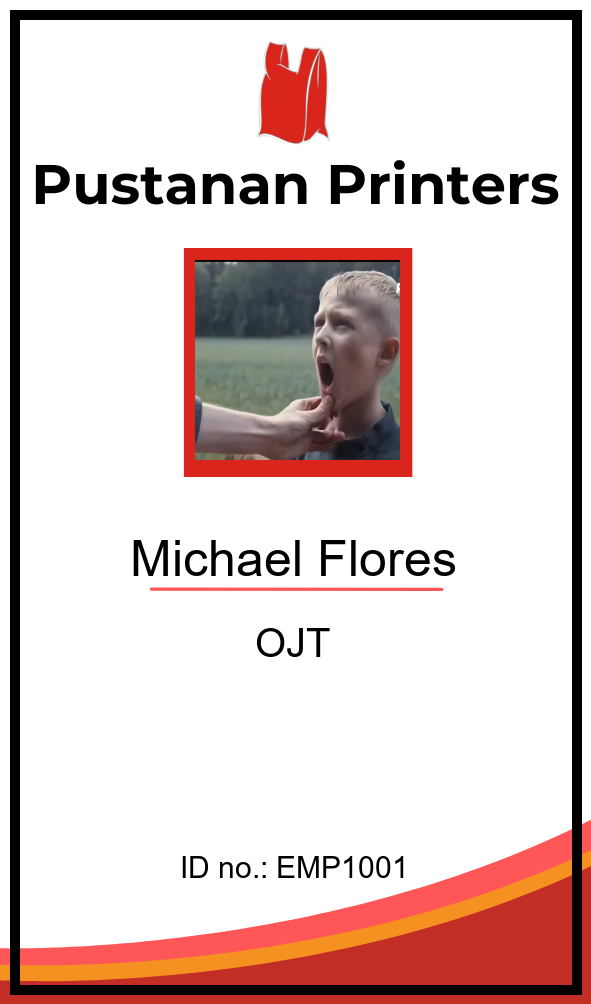
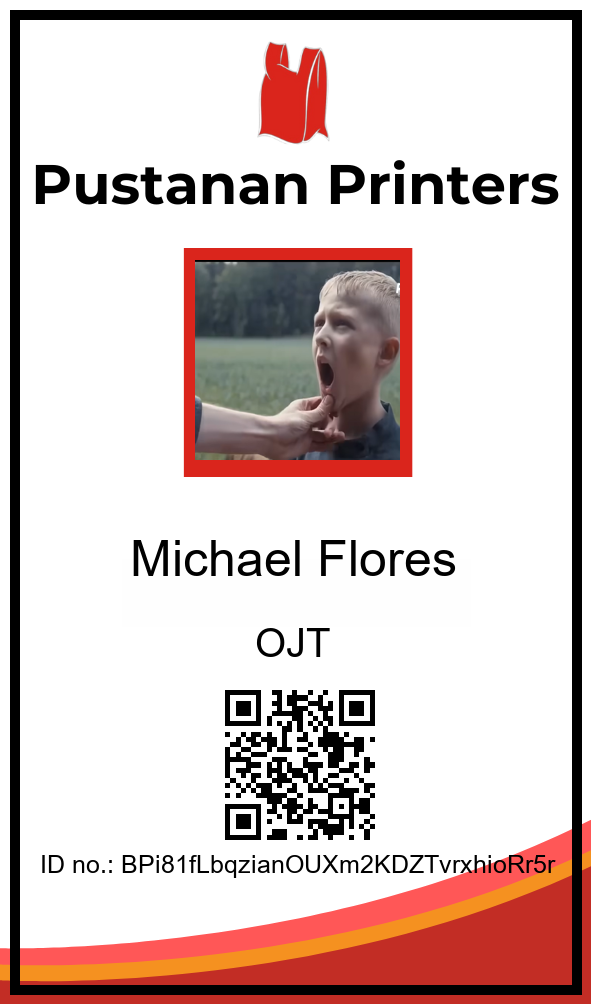
.

Changed region(s): [[0.1827, 0.6793, 0.9442, 0.8954], [0.1218, 0.8337, 0.1523, 0.8645], [0.0609, 0.8337, 0.0914, 0.8645]]

diff --git a/Server/generateEmployeeID.py b/Server/generateEmployeeID.py
@@ -22,7 +22,7 @@ def generate_id_card(employee_data):
 
     # card = Image.new("RGB", (card_width, card_height), background_color)
     # draw = ImageDraw.Draw(card)
-    type_of_employee = "Regular Employee" if isRegular else "OJT" if isOJT else "Production Employee" if isProductionEmployee else "Unknown"
+    type_of_employee = "Regular" if isRegular else "OJT" if isOJT else "Production" if isProductionEmployee else "Unknown"
 
     background_path = "server/IDassets/"
 
@@ -63,9 +63,38 @@ def generate_id_card(employee_data):
         except Exception as e:
             print(f"Error loading photo: {e}")
 
-    draw.text((130, 530), f"{name}", fill="black", font=name_font)
-    draw.text((255, 620), f"{type_of_employee}", fill="black", font=role_font)
-    draw.text((180, 850), f"ID no.: {ref_id}", fill="black", font=ref_id_font)
+    # draw.text((130, 530), f"{name}", fill="black", font=name_font)
+    if len(name) > 30:
+        name_font = ImageFont.truetype(font_path, size=30)
+        # name = textwrap.fill(name, width=30)
+        x_text = 80
+    else:
+        x_text = 130
+
+    name_lines = textwrap.wrap(name, width=35)
+    y_text = 530
+    for line in name_lines:
+        draw.text((x_text, y_text), line, fill="black", font=name_font)
+        y_text += name_font.size + 5
+
+    # draw.text((130, 530), f"{name}", fill="black", font=name_font)
+
+    if len(type_of_employee) > 3:
+        # role_font = ImageFont.truetype(font_path, size=30)
+        # type_of_employee = textwrap.fill(type_of_employee, width=30)
+        x_text = 210
+    else:
+        x_text = 255
+
+    type_of_employee_lines = textwrap.wrap(type_of_employee, width=35)
+    y_text = 620
+    for line in type_of_employee_lines:
+        draw.text((x_text, y_text), line, fill="black", font=role_font)
+        y_text += role_font.size + 5
+    # draw.text((255, 620), f"{type_of_employee}", fill="black", font=role_font)
+
+    ref_id_font = ImageFont.truetype(font_path, size=25)
+    draw.text((40, 850), f"ID no.: {ref_id}", fill="black", font=ref_id_font)
     # draw.text((180, 140), address, fill="black", font=ref_id_font)
     # address_lines = textwrap.wrap(address, width=30)
     # y_text = 170
@@ -76,11 +105,11 @@ def generate_id_card(employee_data):
     # draw.text((300, 130), f"Date Joined: {dateJoined}", fill="black", font=ref_id_font)
     # draw.text((50, 300), f"{company}", fill="black", font=ref_id_font)
 
-    # qr = qrcode.QRCode(box_size=4, border=2)
-    # qr.add_data(qr_data)
-    # qr.make(fit=True)
-    # qr_code_img = qr.make_image(fill="black", back_color="white").resize((100, 100))
-    # background.paste(qr_code_img, (450, 250))
+    qr = qrcode.QRCode(box_size=4, border=2)
+    qr.add_data(qr_data)
+    qr.make(fit=True)
+    qr_code_img = qr.make_image(fill="black", back_color="white").resize((170, 170))
+    background.paste(qr_code_img, (215, 680))
 
     directory = 'Server/EmployeeIDs/'
     if not os.path.exists(directory):
@@ -95,35 +124,35 @@ def generate_id_card(employee_data):
 
     # back = Image.new("RGB", (card_width, card_height), background_color)
 
-    try:
-        back = Image.open(background_path).resize((card_width, card_height))
-    except Exception as e:
-        print(f"Error loading background image: {e}")
-        return
+    # try:
+    #     back = Image.open(background_path).resize((card_width, card_height))
+    # except Exception as e:
+    #     print(f"Error loading background image: {e}")
+    #     return
 
-    draw_back = ImageDraw.Draw(back)
-    terms_font = ImageFont.truetype(font_path, size=18)
+    # draw_back = ImageDraw.Draw(back)
+    # terms_font = ImageFont.truetype(font_path, size=18)
 
-    terms = "This card is the property of the company and must be returned upon request. " \
+    # terms = "This card is the property of the company and must be returned upon request. " \
 
-    terms_lines = textwrap.wrap(terms, width=60)
-    y_text = 50
-    for line in terms_lines:
-        draw_back.text((50, y_text), line, fill="black", font=terms_font)
-        y_text += terms_font.size + 5
+    # terms_lines = textwrap.wrap(terms, width=60)
+    # y_text = 50
+    # for line in terms_lines:
+    #     draw_back.text((50, y_text), line, fill="black", font=terms_font)
+    #     y_text += terms_font.size + 5
 
-    draw_back.text((50, 300), f"Property of {company}", fill="black", font=ref_id_font)
+    # draw_back.text((50, 300), f"Property of {company}", fill="black", font=ref_id_font)
 
-    # back_output_path = os.path.join(output_path, f"{name.replace(' ', '_')}_id_card_back.png")
-    back_output_path = os.path.join(directory, f"{employee['name'].replace(' ', '_')}_id_card_back.png")
-    back.save(back_output_path)
-    print(f"Back side of ID card saved to {back_output_path}")
+    # # back_output_path = os.path.join(output_path, f"{name.replace(' ', '_')}_id_card_back.png")
+    # back_output_path = os.path.join(directory, f"{employee['name'].replace(' ', '_')}_id_card_back.png")
+    # back.save(back_output_path)
+    # print(f"Back side of ID card saved to {back_output_path}")
 
 
 
 employee = {
-    "_id": "EMP1001",
-    "name": "Michael Val Letigio Flores",
+    "_id": 'BPi81fLbqzianOUXm2KDZTvrxhioRr5r',
+    "name": "Michael Flores",
     "address": "123 Main Street, Cebu City, Philippines",
     "phoneNumber": "+63 912 345 6789",
     "photoOfPerson": "server/test_assets/minor.png",
@@ -131,7 +160,7 @@ employee = {
     "biodataPhotosList": ["biodata_page1.jpg"],
     "email": "michael.flores@example.com",
     "dateJoined": datetime(2024, 1, 15).date(),
-    "company": "SP",
+    "company": "PPC",
     "isRegular": False,
     "isProductionEmployee": False,
     "isOJT": True,
